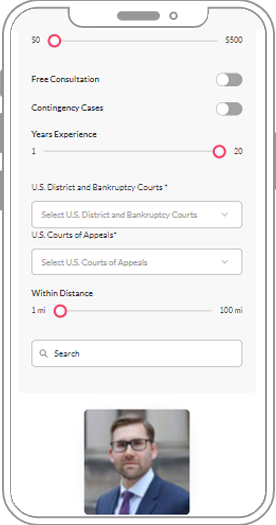
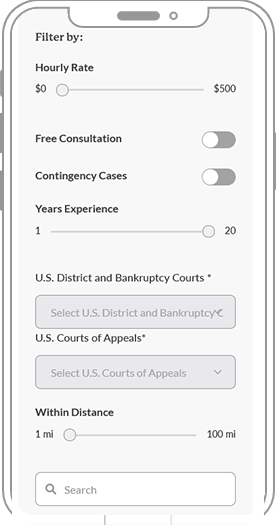
css223

diff --git a/public/assets/css/style.css b/public/assets/css/style.css
@@ -144,6 +144,7 @@ p{
     font-size: 16px;
     display: block;
     margin-bottom: 5px;
+    font-family: 'lato-medium';
 }
 .input-design input ,.input-design select{
     width: 100%;
@@ -812,6 +813,7 @@ input:focus, select:focus, textarea:focus{
     color: #3E3E3E;
     border-radius: 8px;
     padding: 7px 10px;
+    font-weight: 600;
 }
 .schule_consultation-btn:hover {
     background-color: #f93f64;
@@ -870,6 +872,7 @@ input:focus, select:focus, textarea:focus{
     margin-bottom: 0px;
     color: #3E3E3E;
     font-size: 14px;
+    font-family: 'Lato-Medium';
 }
 .range-wrapper>p {
     width: auto;
@@ -2618,7 +2621,7 @@ a.btn_add.mr-2{
     position: absolute;
     cursor: pointer;
     right: -17px;
-    top: 13px;
+    bottom: 50px;
     color: red;
 }
 .appned_inputs .form-flex {
